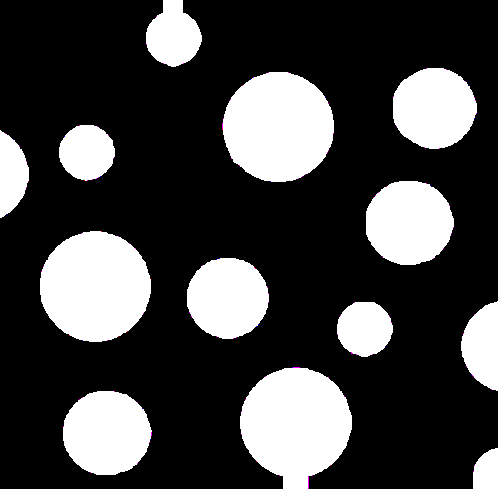
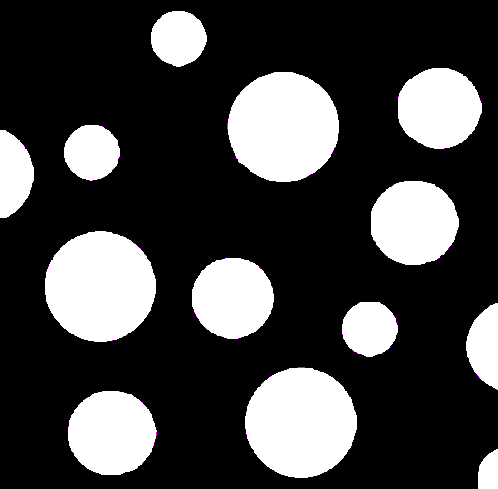
committing

diff --git a/hw2/main.py b/hw2/main.py
@@ -5,8 +5,8 @@ def get_rid_of_black_spot(show: bool = False) -> np.ndarray:
     circle_gray = cv2.imread('pic/circle.png', cv2.COLOR_BGR2GRAY)
 
     ret, circle_bin = cv2.threshold(circle_gray, 127, 255, cv2.THRESH_BINARY)
-    circle_dilate = cv2.dilate(circle_bin, np.ones((5, 5)), iterations=6)
-    circle_erode = cv2.erode(circle_dilate, np.ones((5, 5)), iterations=6)
+    circle_dilate = cv2.dilate(circle_bin, np.ones((5, 6)), iterations=5)
+    circle_erode = cv2.erode(circle_dilate, np.ones((5, 6)), iterations=5)
 
     if show:
         cv2.imwrite('pic/circle_gray.png', circle_gray)
